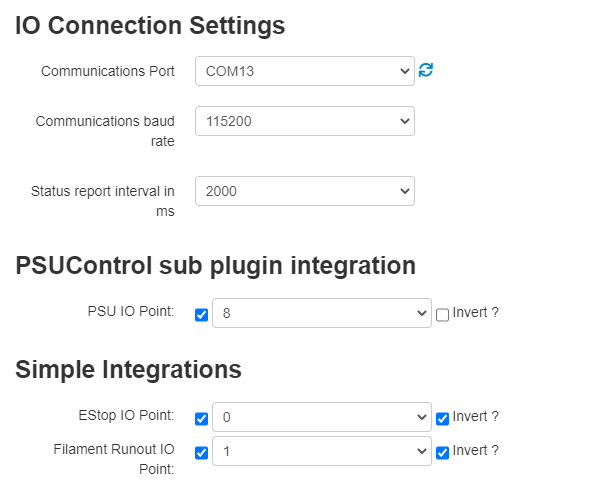
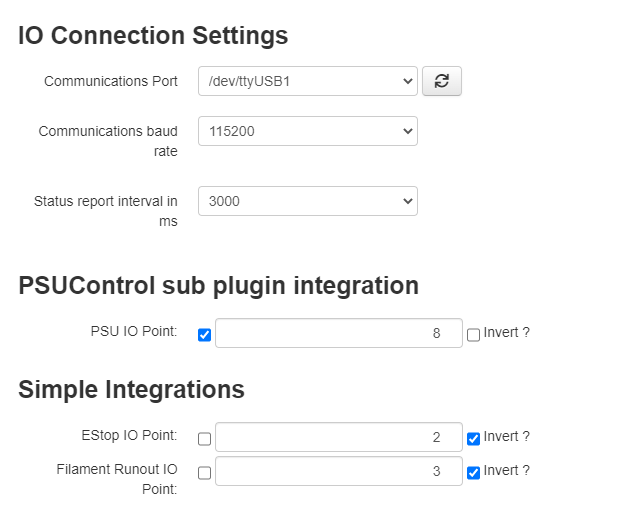
updates to fix io bind settings timing from Knockout

diff --git a/octoprint_siocontrol/static/js/siocontrol.js b/octoprint_siocontrol/static/js/siocontrol.js
@@ -17,18 +17,18 @@ $(function () {
         self.SIO_Ports = ko.observableArray();
         self.IOStatusMessage = ko.observable('Ready');
 
-        self.SIO_SI = "";
+        self.SIO_SI = 3001;
 
-        SIO_EnablePSUIOPoint = "";
-        SIO_PSUIOPoint = "";
+        SIO_EnablePSUIOPoint = 0;
+        SIO_PSUIOPoint = "-1";
         SIO_InvertPSUIOPoint = "";
 
-        SIO_EnableESTIOPoint = "";
-        SIO_ESTIOPoint = "";
+        SIO_EnableESTIOPoint = 0;
+        SIO_ESTIOPoint = "-1"
         SIO_InvertESTIOPoint = "";
 
-        SIO_EnableFRSIOPoint = "";
-        SIO_FRSIOPoint = "";
+        SIO_EnableFRSIOPoint = 0;
+        SIO_FRSIOPoint = "-1";
         SIO_InvertFRSIOPoint = "";
 
         SioButtonStatusUpdateInterval = 1000;
@@ -40,28 +40,9 @@ $(function () {
 
 
         self.onBeforeBinding = function () {
-            self.IOStatusMessage(self.settings.settings.plugins.siocontrol.IOStatusMessage());
-            self.SIO_Port = self.settings.settings.plugins.siocontrol.IOPort();
-            self.SIO_Ports(self.settings.settings.plugins.siocontrol.IOPorts());
-            //self.SIO_Ports.push("")
-            self.SIO_BaudRate = self.settings.settings.plugins.siocontrol.IOBaudRate();
-            self.SIO_BaudRates = self.settings.settings.plugins.siocontrol.IOBaudRates();
-            self.SIO_IOCounts(self.settings.settings.plugins.siocontrol.IOCounts());
-
-            self.SIO_SI = self.settings.settings.plugins.siocontrol.IOSI();
-            self.SIO_EnablePSUIOPoint = self.settings.settings.plugins.siocontrol.EnablePSUIOPoint();
-            self.SIO_PSUIOPoint = self.settings.settings.plugins.siocontrol.PSUIOPoint();
-            self.SIO_InvertPSUIOPoint = self.settings.settings.plugins.siocontrol.InvertPSUIOPoint();
-            self.SIO_EnableESTIOPoint = self.settings.settings.plugins.siocontrol.EnableESTIOPoint();
-            self.SIO_ESTIOPoint = self.settings.settings.plugins.siocontrol.ESTIOPoint();
-            self.SIO_InvertESTIOPoint = self.settings.settings.plugins.siocontrol.InvertESTIOPoint();
-            self.SIO_EnableFRSIOPoint = self.settings.settings.plugins.siocontrol.EnableFRSIOPoint();
-            self.SIO_FRSIOPoint = self.settings.settings.plugins.siocontrol.FRSIOPoint();
-            self.SIO_InvertFRSIOPoint = self.settings.settings.plugins.siocontrol.InvertFRSIOPoint();
             self.sioConfigurations(self.settings.settings.plugins.siocontrol.sio_configurations.slice(0));
-            console.log(self.SIO_Port); //here for debuging. Easy to get to binding packed js
 
-            //self.updateSioButtons();
+
             if (self.SIO_Port != null) {
                 if (self.SIO_IOCounts().length == 0) {
                     self.getIOCounts();
@@ -74,15 +55,39 @@ $(function () {
             }
 
 
+            self.IOStatusMessage(self.settings.settings.plugins.siocontrol.IOStatusMessage());
+            self.SIO_Port = self.settings.settings.plugins.siocontrol.IOPort();
+            self.SIO_Ports(self.settings.settings.plugins.siocontrol.IOPorts());
+            self.SIO_BaudRate = self.settings.settings.plugins.siocontrol.IOBaudRate();
+            self.SIO_BaudRates = self.settings.settings.plugins.siocontrol.IOBaudRates();
+            self.SIO_SI = self.settings.settings.plugins.siocontrol.IOSI();
+            self.SIO_EnablePSUIOPoint = self.settings.settings.plugins.siocontrol.EnablePSUIOPoint();
+            self.SIO_PSUIOPoint = self.settings.settings.plugins.siocontrol.PSUIOPoint();
+            self.SIO_InvertPSUIOPoint = self.settings.settings.plugins.siocontrol.InvertPSUIOPoint();
+            self.SIO_EnableESTIOPoint = self.settings.settings.plugins.siocontrol.EnableESTIOPoint();
+            self.SIO_ESTIOPoint = self.settings.settings.plugins.siocontrol.ESTIOPoint();
+            self.SIO_InvertESTIOPoint = self.settings.settings.plugins.siocontrol.InvertESTIOPoint();
+            self.SIO_EnableFRSIOPoint = self.settings.settings.plugins.siocontrol.EnableFRSIOPoint();
+            self.SIO_FRSIOPoint = self.settings.settings.plugins.siocontrol.FRSIOPoint();
+            self.SIO_InvertFRSIOPoint = self.settings.settings.plugins.siocontrol.InvertFRSIOPoint();
+
+
+            console.log(self.SIO_Port); //here for debuging. Easy to get to binding packed js
+
+
+
+
+
             setInterval(function () {
                 self.getStatusMessage();
-            }, self.SIO_SI * 2);
+            }, 5000);
 
 
 
             console.log(self.SIO_SI);
 
         };
+
 
         self.onSettingsBeforeSave = function () {
             self.settings.settings.plugins.siocontrol.sio_configurations(self.sioConfigurations.slice(0));
@@ -102,7 +107,7 @@ $(function () {
             self.settings.settings.plugins.siocontrol.ESTIOPoint(self.SIO_ESTIOPoint);
             self.settings.settings.plugins.siocontrol.InvertESTIOPoint(self.SIO_InvertESTIOPoint);
             self.settings.settings.plugins.siocontrol.EnableFRSIOPoint(self.SIO_EnableFRSIOPoint);
-            self.settings.settings.plugins.siocontrol.FRSIOPoint(self.SIO_InvertFRSIOPoint);
+            self.settings.settings.plugins.siocontrol.FRSIOPoint(self.SIO_FRSIOPoint);
             self.settings.settings.plugins.siocontrol.InvertFRSIOPoint(self.SIO_InvertFRSIOPoint);
             self.updateSioButtons();
             self.getIOCounts();

diff --git a/octoprint_siocontrol/__init__.py b/octoprint_siocontrol/__init__.py
@@ -73,20 +73,20 @@ class SiocontrolPlugin(
         return dict(
             sio_configurations=[],
             PSUIOPoint="0",
+            EnablePSUIOPoint=False,
             InvertPSUIOPoint=False,
             ESTIOPoint="0",
-            InvertESTIOPoint=False,
-            IOSI="",
-            IOPort="",
-            IOBaudRate="",
-            IOBaudRates=["74880", "115200", "230400", "38400", "19200", "9600"],
-            IOPorts=[],
-            EnablePSUIOPoint=False,
             EnableESTIOPoint=False,
-            EnableFRSIOPoint=False,
+            InvertESTIOPoint=False,
             FRSIOPoint="0",
             InvertFRSIOPoint=False,
-            IOCount=100,
+            EnableFRSIOPoint=False,
+            IOSI=3000,
+            IOPort="",
+            IOBaudRate="115200",
+            IOBaudRates=["74880", "115200", "230400", "38400", "19200", "9600"],
+            IOPorts=[],
+            IOCounts=[],
             IOStatusMessage="Unknown Status",
         )
 
@@ -240,9 +240,9 @@ class SiocontrolPlugin(
 
     def getCounts(self):
         if self.conn.IOCount != 0:
-            counts = [k for k in range(0, self.conn.IOCount)]
+            counts = [str(k) for k in range(0, self.conn.IOCount)]
         else:
-            counts = []
+            counts = [str(k) for k in range(0, 99)]
         return counts
 
     def on_settings_save(self, data):

diff --git a/README.md b/README.md
@@ -1,11 +1,14 @@
 # OctoPrint-Siocontrol
+The Serial IO Control OctoPrint plugin, Adds a sidebar with on/off buttons for controling of Outputs and monitoring of Inputs. Is also a Subplugin for integration with PSU control, incorperates a physical EStop and simple Filament runout as sensor. Serves as an alteritive IO control for users that are not using a Raspberry Pie or other device that can take advantage local IO. Requires a Microcotroler as the IO. See details below.
+![Connection and Integrations Config](https://github.com/jcassel/OctoPrint-Siocontrol/blob/main/extras/SettingsExampleConnAndIntegratons.PNG)
+
 With the Serial IO Control and an inexpensive Micro controller you can add Serial IO to any OctoPrint instance. Use a serial connection to a micro controller like the Arduino Mega, Nano, Esp8266/ESP32 over a direct wired serial connection. Use the mocro controllers Digital IO from Octoprint. An alternitive to using GPIO/local IO on a Raspberry Pi like device. Specificly targed at users of octoprint that have chosen to not use a Raspberry Pi. 
 
 The number of IO and use case is configurable in the firmware of the micro controller. The serial protocal used is simple and can be ported to just about any micro controller with ease. There are a several examples of firmware that can be used as is or adjusted to your needs. There are also several off the shelf OI board kits that can be purchased if you do not want to design and build one.
 
-- [Arduino shield]:(https://www.amazon.com/dp/B00DDEIW1Y) with 6 relay outputs and 6 digital inputs. Also requires an [Arduino UNO](https://www.amazon.com/Arduino-A000066-ARDUINO-UNO-R3/dp/B008GRTSV6)
-- [CANADUINO PLC MEGA328]:(https://www.amazon.com/dp/B085F3YRK4) with 6 relay outputs and 4 digital inputs. 
-- [OctoPrint-SerialIO Control board]:(https://www.tindie.com/products/jcsgotthis/iot-project-board-octoprint-siocontrol-board/) with 2 relay outputs, 6 digital configurable(in/out)puts. 
+- [Arduino shield]:(https://www.amazon.com/dp/B00DDEIW1Y) with 6 relay outputs and 6 digital inputs. Also requires an [Arduino UNO](https://www.amazon.com/Arduino-A000066-ARDUINO-UNO-R3/dp/B008GRTSV6). Example firmware:[Mega2560-SerialIO_PKA05IOShield](https://github.com/jcassel/Mega2560-SerialIO_PKA05IOShield)
+- [CANADUINO PLC MEGA328]:(https://www.amazon.com/dp/B085F3YRK4) with 6 relay outputs and 4 digital inputs. Example firmware coming soon. 
+- [OctoPrint-SerialIO Control board]:(https://www.tindie.com/products/jcsgotthis/iot-project-board-octoprint-siocontrol-board/) with 2 relay outputs, 6 digital configurable(in/out)puts. Example firmware:[D1SerialIO](https://github.com/jcassel/D1SerialIO)
 
 
 ## Setup
@@ -23,6 +26,8 @@ Configure the Serial comport details.
 - Port path(Linux) name:(Windows)
 - Baudrate  
 - Sensing/reporting interval
+
+Save these settings check in the lower left navigation pain. It should say "Connected". If not you may not have put in the correct connection details. You can now reopen the SIO setting and assigne the rest of the details as needed. 
 
 Simple selections for integrations
 - Enable and select IO point for PSU Control Sub Plugin.
